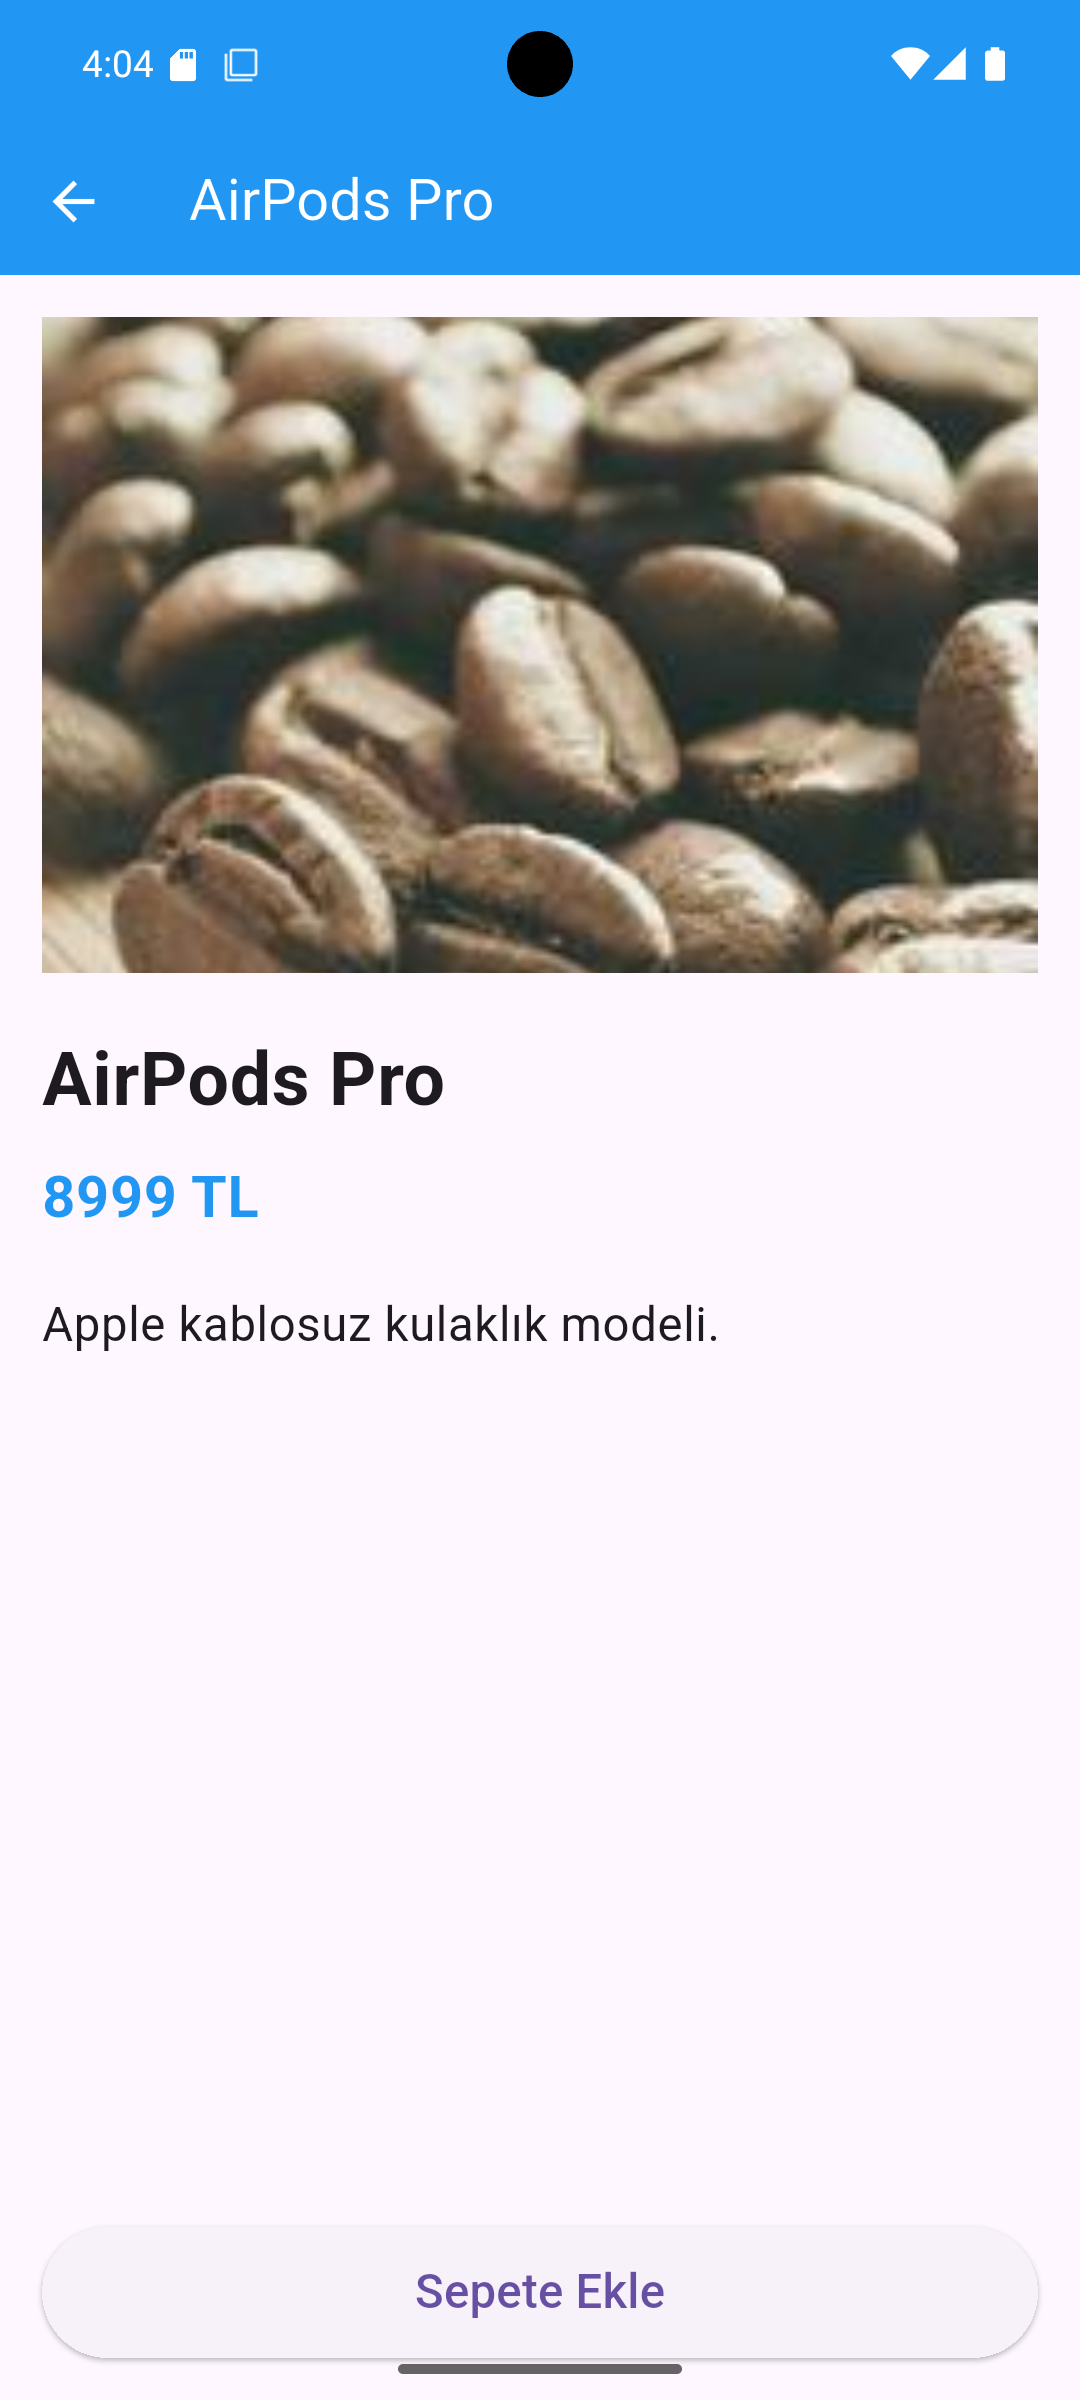
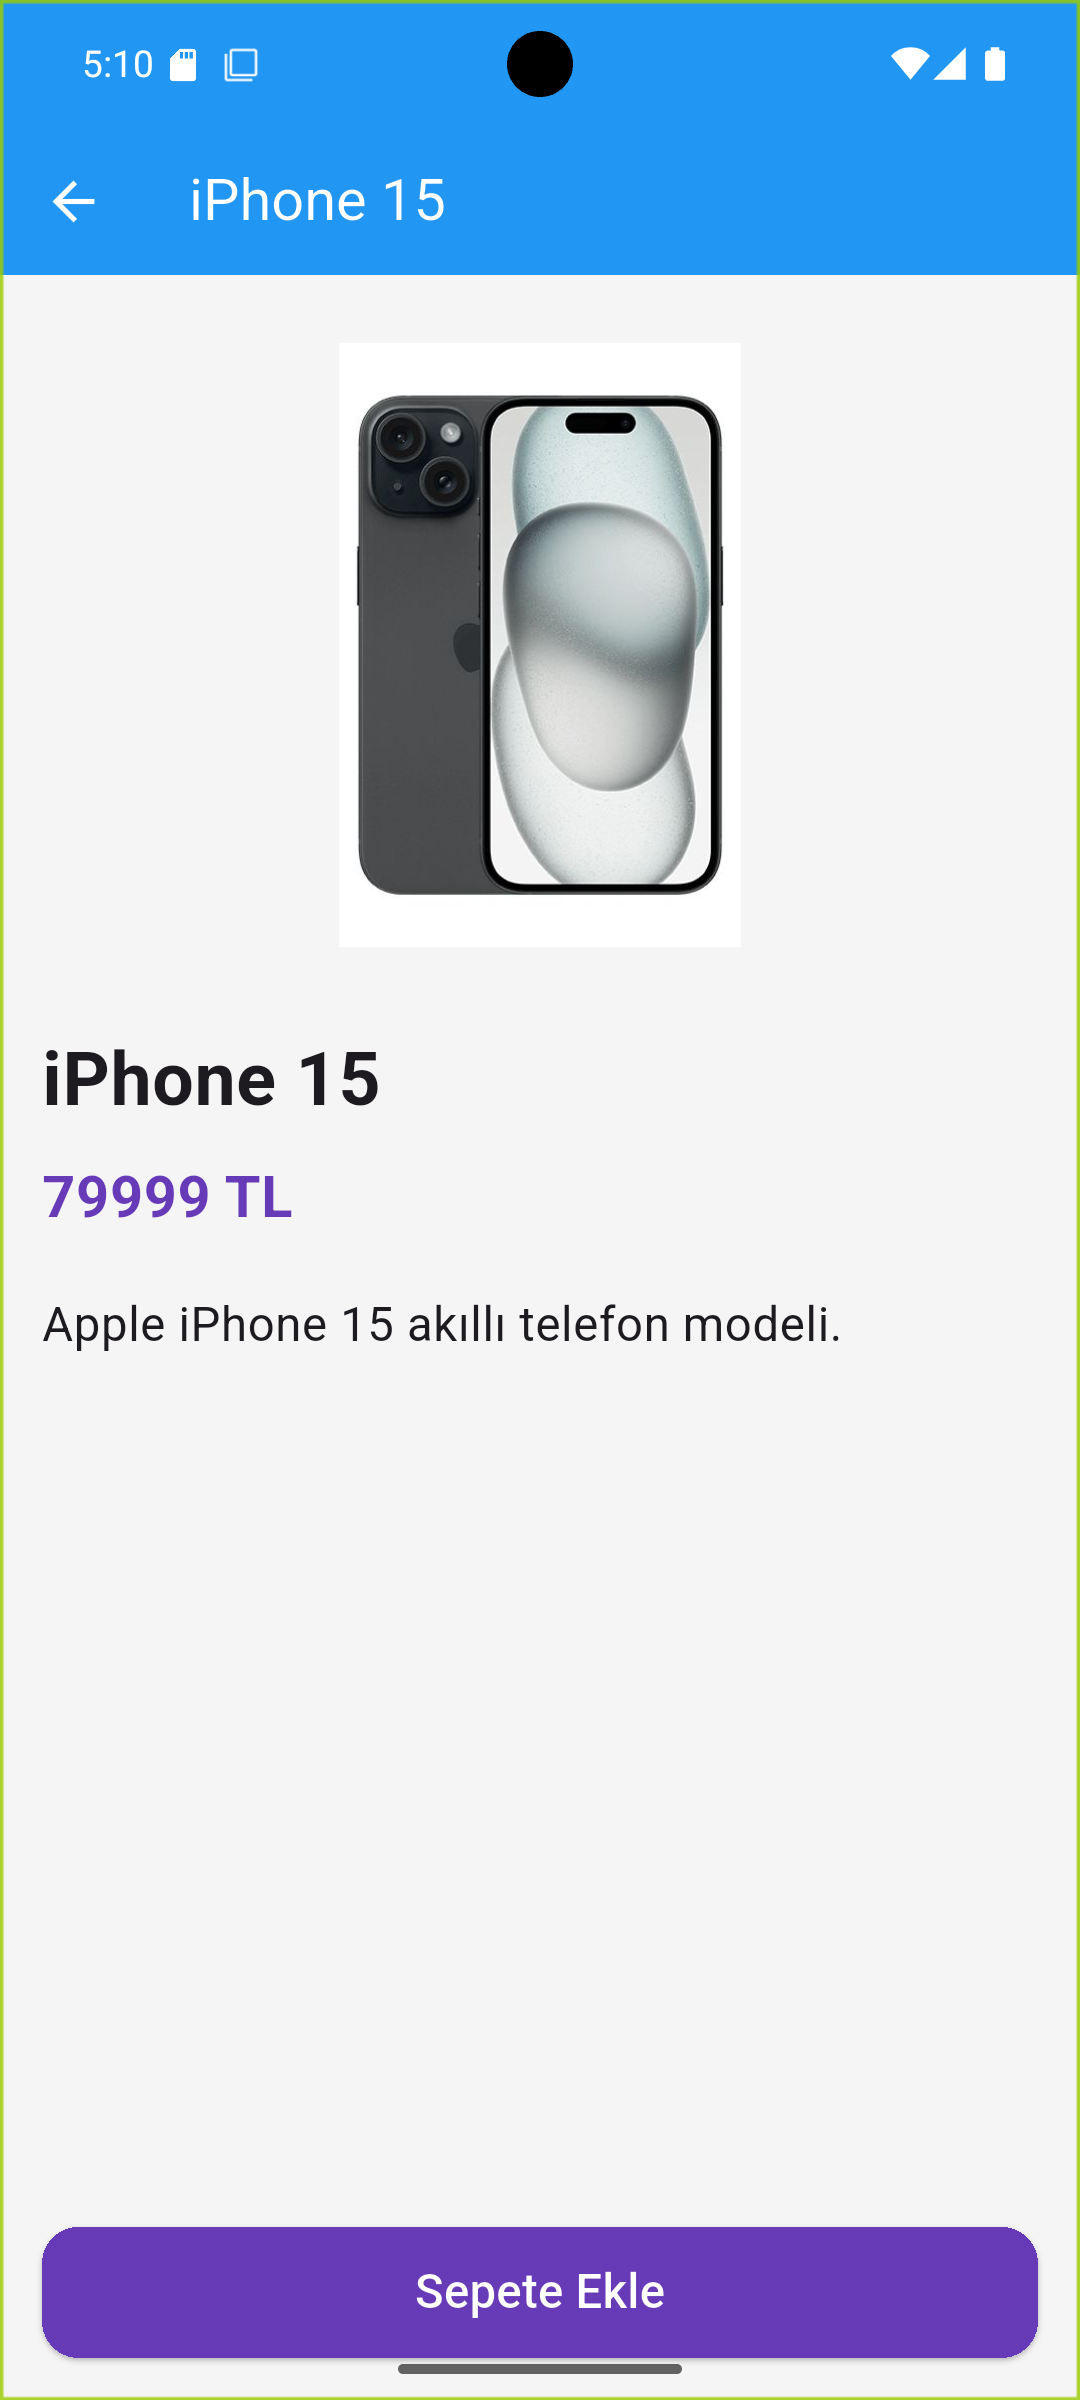
.

diff --git a/README.md b/README.md
@@ -1,6 +1,6 @@
 # Mini Katalog Uygulaması
 
-Flutter ile geliştirilmiş basit katalog uygulaması.
+Flutter ile geliştirilmiş modern görünümlü mini katalog ve alışveriş uygulaması.
 
 ## Özellikler
 
@@ -9,20 +9,48 @@ Flutter ile geliştirilmiş basit katalog uygulaması.
 - Ürün detay ekranı
 - JSON veri kullanımı
 - Navigator ile sayfa geçişi
-- Basit sepet simülasyonu
+- Ürün arama sistemi
+- Gerçek ürün görselleri
+- Sepet sistemi
+- Sepetten ürün silme
+- Toplam fiyat hesaplama
+- Sipariş onaylama
+- Modern UI tasarımı
 
 ## Kullanılan Teknolojiler
 
 - Flutter
 - Dart
 
+## Proje Yapısı
+
+```text
+lib/
+├── models/
+├── screens/
+├── services/
+├── widgets/
+└── data/
+```
+
+## Ekran Görüntüleri
+
 ## Ekran Görüntüleri
 
 ### Ana Sayfa
-![Home](screenshots/home.png)
+<img src="screenshots/home.png" width="300">
 
-### Detay Sayfası
-![Detail](screenshots/detail.png)
+### Ürün Detay Ekranı
+<img src="screenshots/detail.png" width="300">
+
+### Ürünü Sepete Ekleme
+<img src="screenshots/addcart.png" width="300">
+
+### Sepet Ekranı
+<img src="screenshots/cart.png" width="300">
+
+### Sipariş Onaylama
+<img src="screenshots/submitcart.png" width="300">
 
 ## Çalıştırma
 
@@ -30,3 +58,7 @@ Flutter ile geliştirilmiş basit katalog uygulaması.
 flutter pub get
 flutter run
 ```
+
+## Geliştirici
+
+Metin